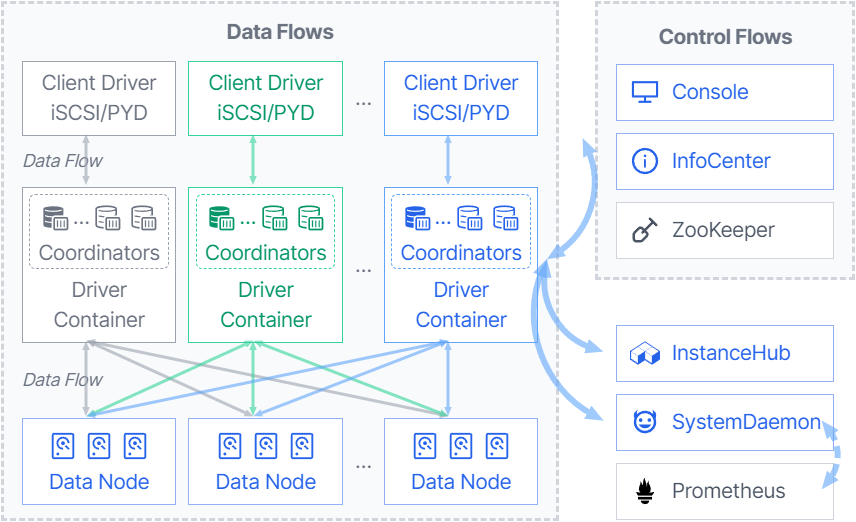
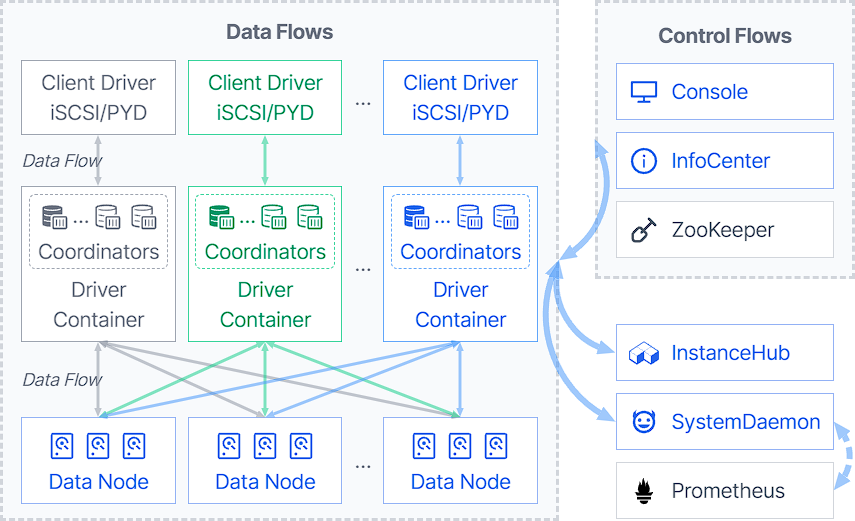
added Chinese diagram

diff --git a/README.md b/README.md
@@ -32,10 +32,10 @@ ZettaStor DBS provides enterprise-level business storage solutions with high ava
 ZettaStor DBS comes in two distributions: the Community Edition and Enterprise Edition. The source code for the Community Edition is distributed under the [AGPL 3.0](LICENSE.md) license.
 
 ## System Architecture Diagram
-<img src="assets/architecture_en.png" alt="System Architecture Diagram" width="428">
+<img src="assets/architecture_en.png" alt="System Architecture Diagram" width="50%">
 
 ## Schematic Diagram
-<img src="assets/schematic_en.png" alt="Schematic Diagram" width="425">
+<img src="assets/schematic_en.png" alt="Schematic Diagram" width="50%">
 
 # Technical Advantages
 

diff --git a/README-zh.md b/README-zh.md
@@ -32,10 +32,10 @@ ZettaStor DBS 由 [南京鹏云网络科技有限公司](https://www.pengyunnetw
 ZettaStor DBS 分为社区版（开源）和商业版。社区版的源代码在 [AGPL 3.0](LICENSE.md) 许可证下进行分发。
 
 ## 系统架构图
-<img src="assets/architecture_en.png" alt="System Architecture Diagram" width="428">
+<img src="assets/architecture_zh.png" alt="System Architecture Diagram" width="50%">
 
 ## 系统示意图
-<img src="assets/schematic_en.png" alt="Schematic Diagram" width="425">
+<img src="assets/schematic_zh.png" alt="Schematic Diagram" width="50%">
 
 # 技术优势
 
